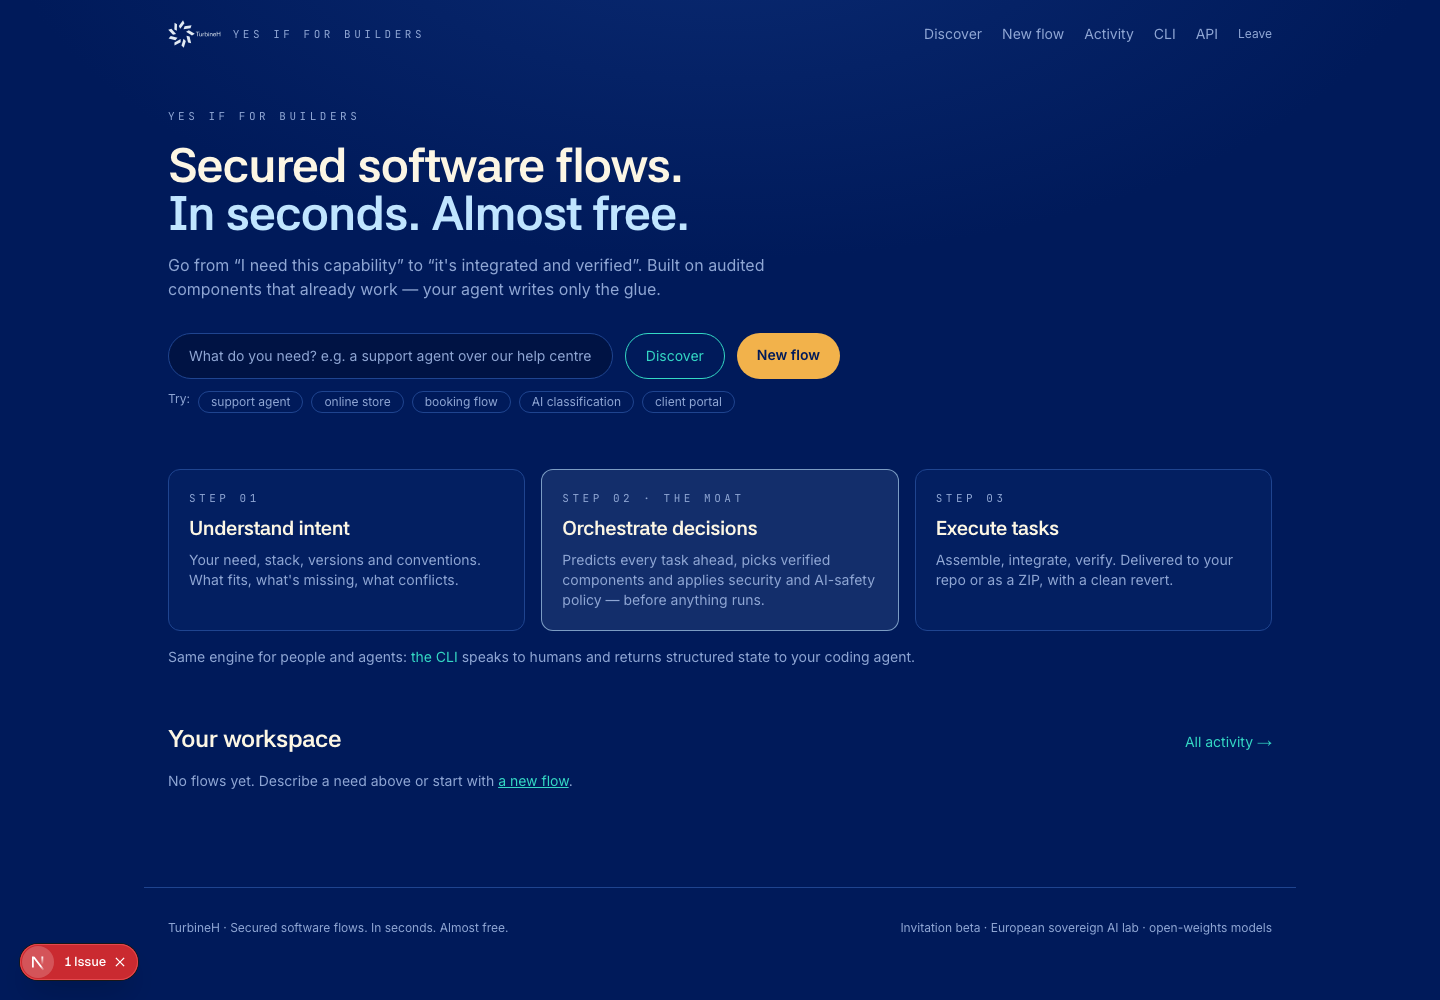
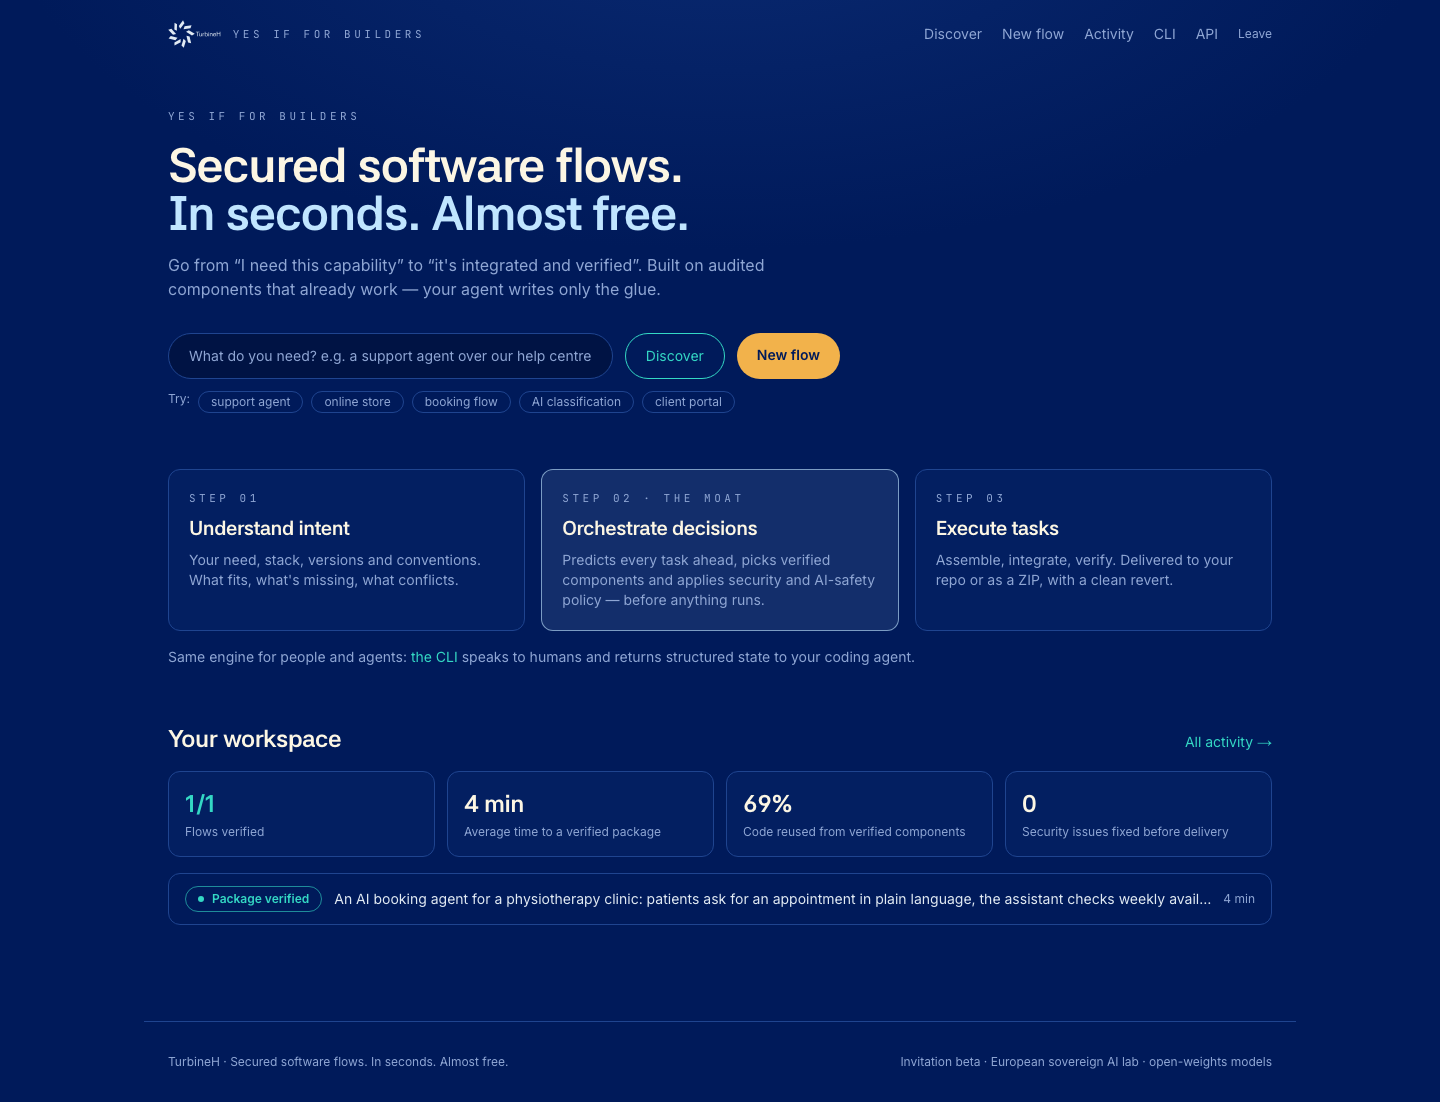
feat(web): product area UI — discover, new flow, flow result, activity, CLI and API pages (PLAN §16 P4/P8)

diff --git a/apps/web/src/lib/use-cases.ts b/apps/web/src/lib/use-cases.ts
@@ -200,9 +200,15 @@ const words = (q: string) =>
 export function matchUseCases(q: string): UseCase[] {
   const ws = words(q);
   if (ws.length === 0) return USE_CASES;
+  // An AI agent/assistant need is an AI flow first: the domain (bookings, shop…) becomes its tools and data.
+  const wantsAi = ws.some((w) =>
+    ["ai", "agent", "agents", "assistant", "chatbot", "llm"].includes(w),
+  );
   return USE_CASES.map((u) => {
     const hay = `${u.keywords.join(" ")} ${u.name} ${u.summary}`.toLowerCase();
-    return { u, score: ws.filter((w) => hay.includes(w)).length };
+    const score =
+      ws.filter((w) => hay.includes(w)).length + (wantsAi && u.id === "ai-agents" ? 10 : 0);
+    return { u, score };
   })
     .filter((x) => x.score > 0)
     .sort((a, b) => b.score - a.score)

diff --git a/apps/web/src/lib/use-cases.test.ts b/apps/web/src/lib/use-cases.test.ts
@@ -7,6 +7,9 @@ describe("Discover by need", () => {
     expect(matchUseCases("support agent over our help centre")[0]?.id).toBe("ai-agents");
     expect(matchUseCases("online store with discount codes")[0]?.id).toBe("storefront");
     expect(matchUseCases("booking flow for a clinic")[0]?.id).toBe("bookings");
+    // An AI agent that books is an AI flow; bookings comes next as its domain.
+    const ai = matchUseCases("An AI booking agent for a physiotherapy clinic").map((u) => u.id);
+    expect(ai.slice(0, 2)).toEqual(["ai-agents", "bookings"]);
   });
 
   it("returns every use case for an empty need and none for an unrelated one", () => {

diff --git a/apps/web/next.config.ts b/apps/web/next.config.ts
@@ -15,6 +15,8 @@ const csp = [
 
 const config: NextConfig = {
   poweredByHeader: false,
+  // `next dev` would otherwise write AGENTS.md/CLAUDE.md into apps/web; the repo keeps its own agent instructions.
+  agentRules: false,
   images: { unoptimized: true },
   transpilePackages: [
     "@turbineh/db",

diff --git a/CHANGELOG.md b/CHANGELOG.md
@@ -6,6 +6,7 @@ All notable changes to this project are documented here. Format: [Keep a Changel
 
 ### Added
 
+- Product UI (PLAN §16, P4/P8): software.turbineh.com is only the product area — Home (search by need, the three orchestration steps, workspace figures), Discover (complete flows and verified components with what they bring, requirements and a runnable example), New flow (need → environment: repository, uploaded manifests or stack, with "adaptation pending" when only a stack is given → plan review with decisions, files, dependencies, configuration, estimate and approvals → generate & verify), Flow (live decisions and checks, then precise states, what works and what needs configuration first, Try / Review / Check / Continue / Revert, Download ZIP, Integrate into repository, Copy instructions for your AI agent), Activity & reports (measured figures only, no cost), CLI and API pages. Typed client of the engine contract with graceful fallback to today's build endpoints. No sign-in chrome and no third-party decider names in the UI. Screenshots in `bench/results/ui-2026-10-13/`.
 - Invitation access (ADR-0030): software.turbineh.com opens only with the access token (signed workspace cookie, no login); the same token works as the API key with an optional `x-turbineh-workspace` header. GitHub becomes optional.
 - Direct model calls are rerouted through the orchestrator instead of blocking delivery (owner decision, ADR-0029 amendment): the AI rules are warnings, remediation always rewrites the call to `orchestrate()`/`embed()` (or disables it when the app has no orchestrator).
 - TurbineH AI gateway (ADR-0029): client AI apps call `/v1/ai/v1/*` with a per-app token and use TurbineH's JEV and model keys, which never leave our servers; model allow-list, request limits, per-app rate limit and daily token quota, usage recorded per app (billing, future client usage metric). Tokens from the build page or set automatically by Deploy for me; AI usage per app in the ops panel.
